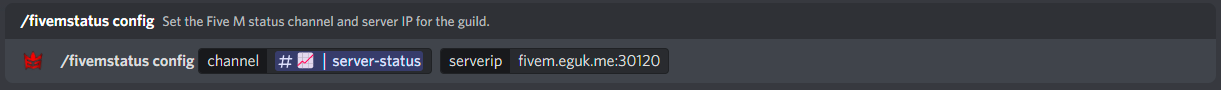
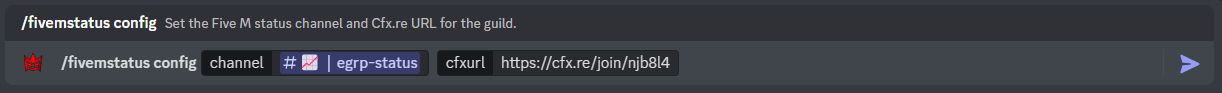
(->v3.0.6) Match features & changes
+ Updated to ensure fivemstatus configuration feature page is up to date with cfx.re url transition.

Changed region(s): [[0.0, 0.5333, 0.5602, 0.8222], [0.0, 0.1556, 0.4357, 0.3333], [0.9648, 0.6, 0.9959, 0.7778]]

diff --git a/docs/fivemstatusfeature.md b/docs/fivemstatusfeature.md
@@ -10,6 +10,12 @@ This feature is useful for Discord servers that run a Five M (GTA V Modification
 
 :::
 
+:::note
+
+Recently reworked to v2: This update has changed the previous usage of the IP/Domain:Port to now simply using your server's Cfx.re URL, which improves user privacy and code efficiency. Moreover, a recent update also brings a direct connect button AND a button to view the entire playerlist!
+
+:::
+
 ## Enabling Five M Server Status
 
 By default, the Five M Server Status is toggled off. Firstly, use the "/toggle fivemstatus" command within your guild returning true to enable (or false to disable).
@@ -20,11 +26,11 @@ An Example of toggling the Five M Server Status:
 
 ## Configuring the functionality
 
-Most importantly, fisrt you need to grab your server's IP address or domain name. Next, use the command "/fivemstatus config" which consists of two arguments. One is to define the channel to which the server status embed should be sent to and updated in, whilst the other is the server IP.
+Most importantly, first you need to grab your server's Cfx.re URL, which can be found when your start your server in the console, but also through the key management portal at: https://keymaster.fivem.net/. Next, use the command "/fivemstatus config" which consists of two arguments. One is to define the channel to which the server status embed should be sent to and updated in, whilst the other is your server's Cfx.re URL which will be used to find the necessary public data via the endpoint.
 
 :::warning
 
-Ensure that you have the port after your IP, otherwise it will not work! For example: 0.0.0.0:30120 with the port being :30120 (Five M's default port), likewise for domains.
+Ensure that you enter the FULL server Cfx.re URL, including the beginning https! For example: https://cfx.re/join/njb8l4
 
 :::
 
@@ -58,6 +64,6 @@ And... that's it! The Five M Server Status is now fully configured and requires 
 
 :::note
 
-Please note once you submit any of these commands, it may take up to 30 seconds for updates to occur or for the message embed to be posted to the channel.
+Please note once you submit any of these commands, it may take up to 15 seconds for updates to occur or for the message embed to be posted to the channel.
 
 :::
